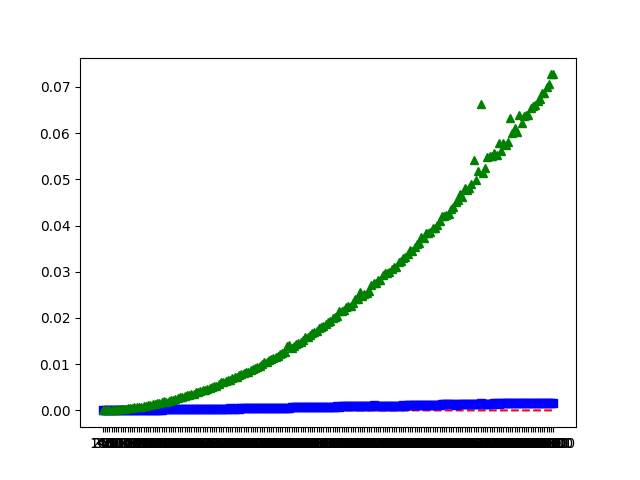
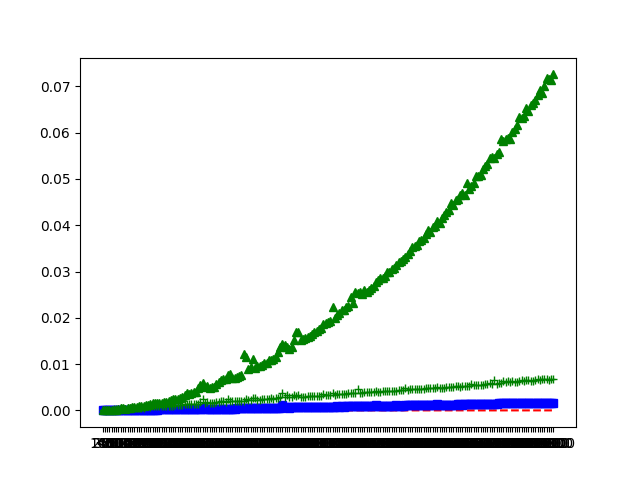
Add method based on sorting

diff --git a/README.md b/README.md
@@ -7,9 +7,10 @@ $ pip install -r requirements.txt
 $ make
 ```
 
-Three methods are compared:
-* Using Counters
+Four methods are compared (from slowest to fastest):
 * Using C arrays instead of Counters
+* Using Counters
+* Sorting each string
 * Using [prime numbers](https://twitter.com/fermatslibrary/status/988399621402656773)
 
 The last method, although elegant, is really slow because of arbitrary precision
